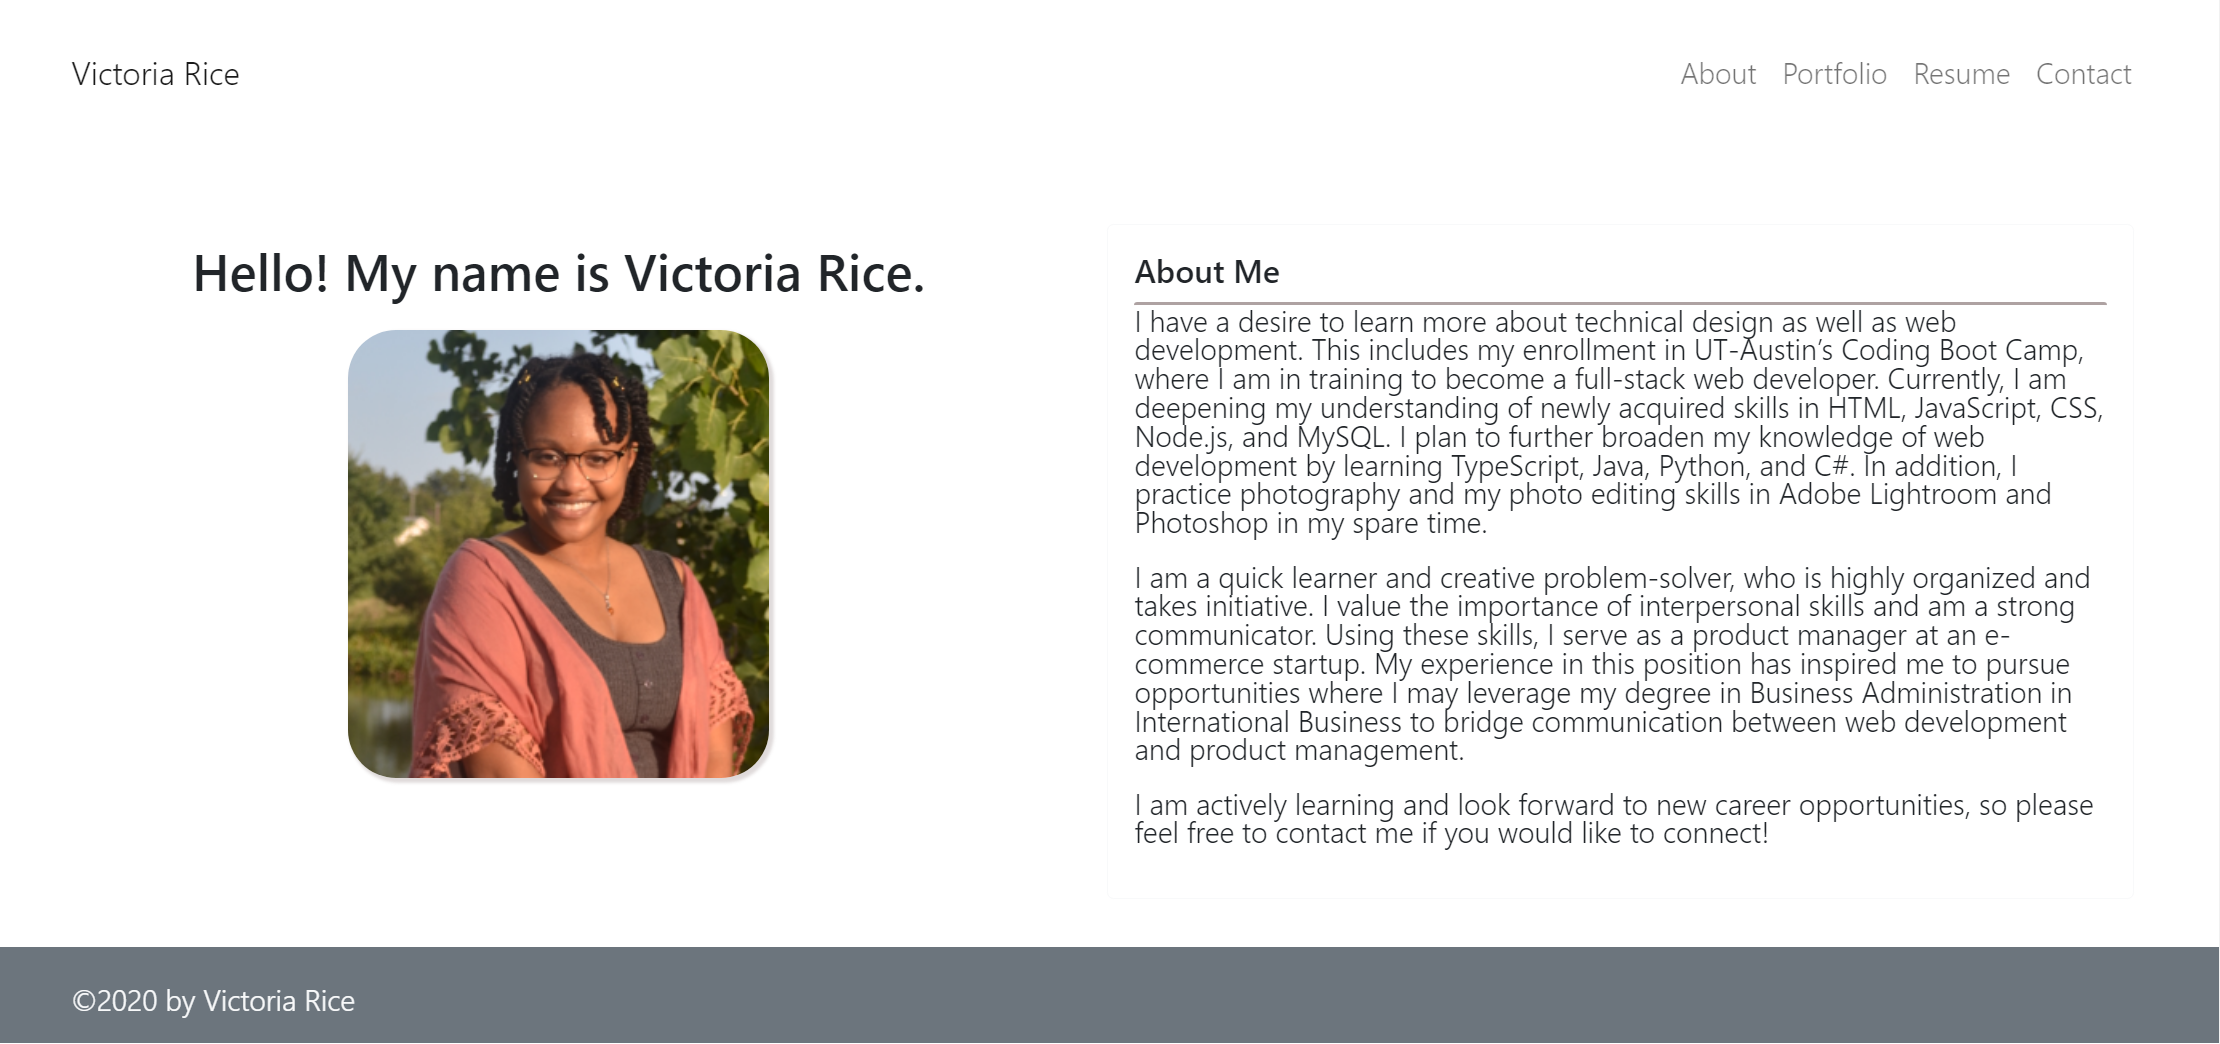
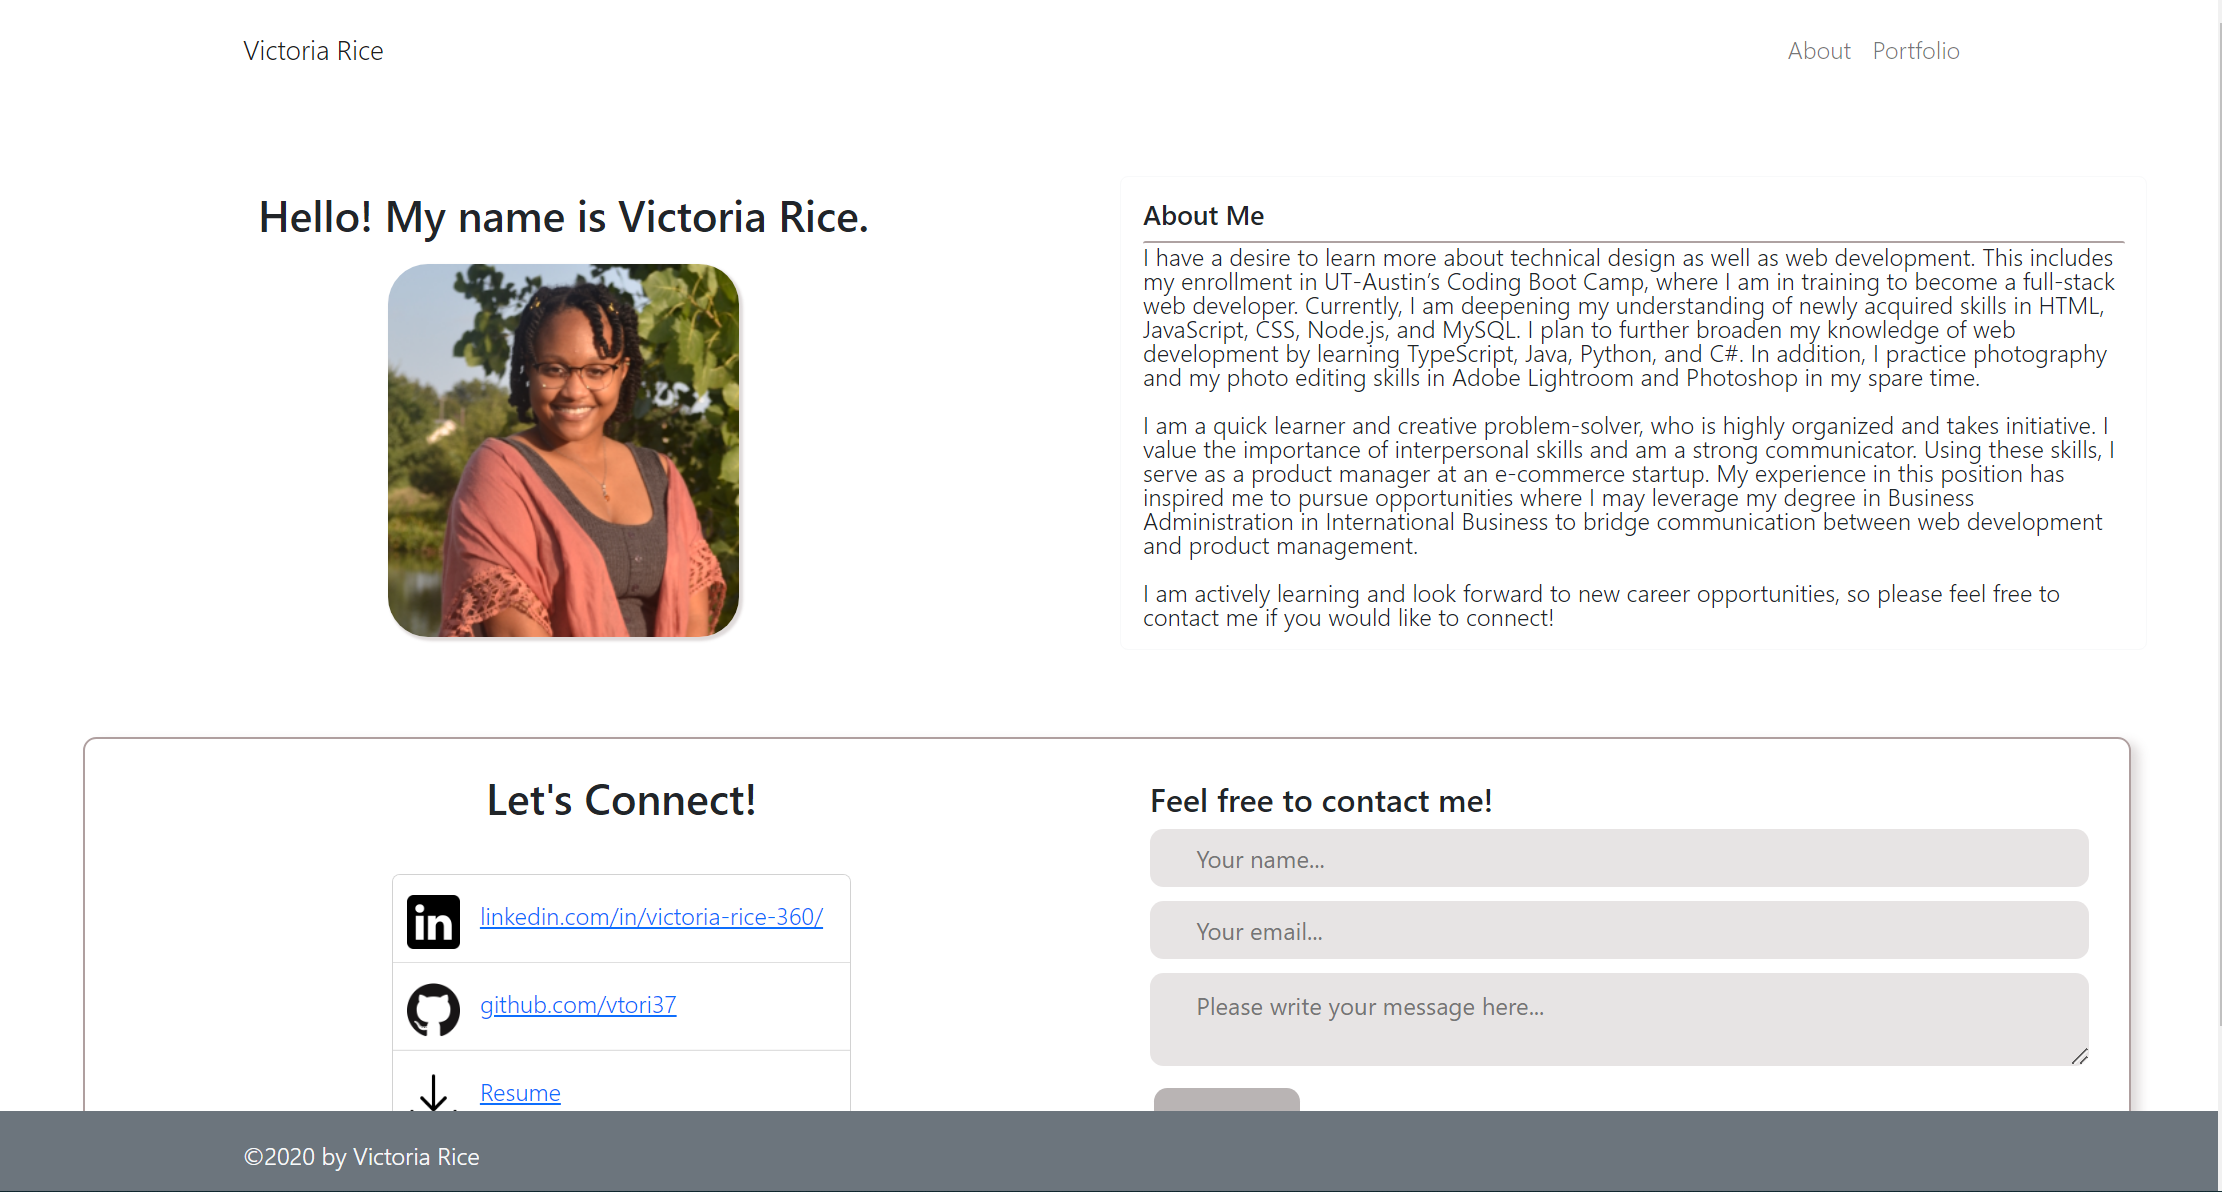
update to About and README

diff --git a/src/pages/About.js b/src/pages/About.js
@@ -60,11 +60,13 @@ function About() {
             <p>
             I have a desire to learn more about technical design as well as web development. This includes my enrollment in UT-Austin’s Coding Boot Camp, where I am in training to become a full-stack web developer. Currently, I am deepening my understanding of newly acquired skills in HTML, JavaScript, CSS, Node.js, and MySQL. I plan to further broaden my knowledge of web development by learning TypeScript, Java, Python, and C#. In addition, I practice photography and my photo editing skills in Adobe Lightroom and Photoshop in my spare time. 
             </p>
+            <br></br>
             <p>
             I am a quick learner and creative problem-solver, who is highly organized and takes initiative.  I value the importance of interpersonal skills and am a strong communicator. Using these skills, I serve as a product manager at an e-commerce startup. My experience in this position has inspired me to pursue opportunities where I may leverage my degree in Business Administration in International Business to bridge communication between web development and product management. 
             </p>
+            <br></br>
             <p>
-            I am actively learning and look forward to new career opportunities, so please feel free to email me at <span className="blue">vrice360@gmail.com</span> if you would like to connect!
+            I am actively learning and look forward to new career opportunities, so please feel free to contact me if you would like to connect!
             </p>
             </Card.Text>
           </Card.Body>

diff --git a/src/App.js b/src/App.js
@@ -5,7 +5,6 @@ import Navi from './components/Navi';
 import Footer from './components/Footer.js';
 import About from './pages/About.js';
 import Portfolio from './pages/Portfolio.js';
-import Resume from './pages/Resume.js';
 
 function App() {
   return (
@@ -16,7 +15,6 @@ function App() {
           <Route path="/" element={<About />} />
           <Route path="/About" element={<About />} />
           <Route path="portfolio" element={<Portfolio />} />
-          <Route path="resume" element={<Resume />} />
         </Routes>
         <Footer />
      </Router>

diff --git a/src/components/Navi.js b/src/components/Navi.js
@@ -16,7 +16,7 @@ function Navi() {
       <Nav className="ms-auto">
         <Nav.Link as={Link} to="/About">About</Nav.Link>
         <Nav.Link as={Link} to="/portfolio">Portfolio</Nav.Link>
-        <Nav.Link as={Link} to="/resume">Resume</Nav.Link>
+        {/* <Nav.Link as={Link} to="/resume">Resume</Nav.Link> */}
         {/* <Nav.Link as={Link} to="/contact">Contact</Nav.Link> */}
       </Nav>
       </Navbar.Collapse>

diff --git a/src/styles/port.css b/src/styles/port.css
@@ -29,3 +29,7 @@
 .resume-btn {
 align-content: center;
 }
+
+Button {
+  margin-top: 15px;
+}
